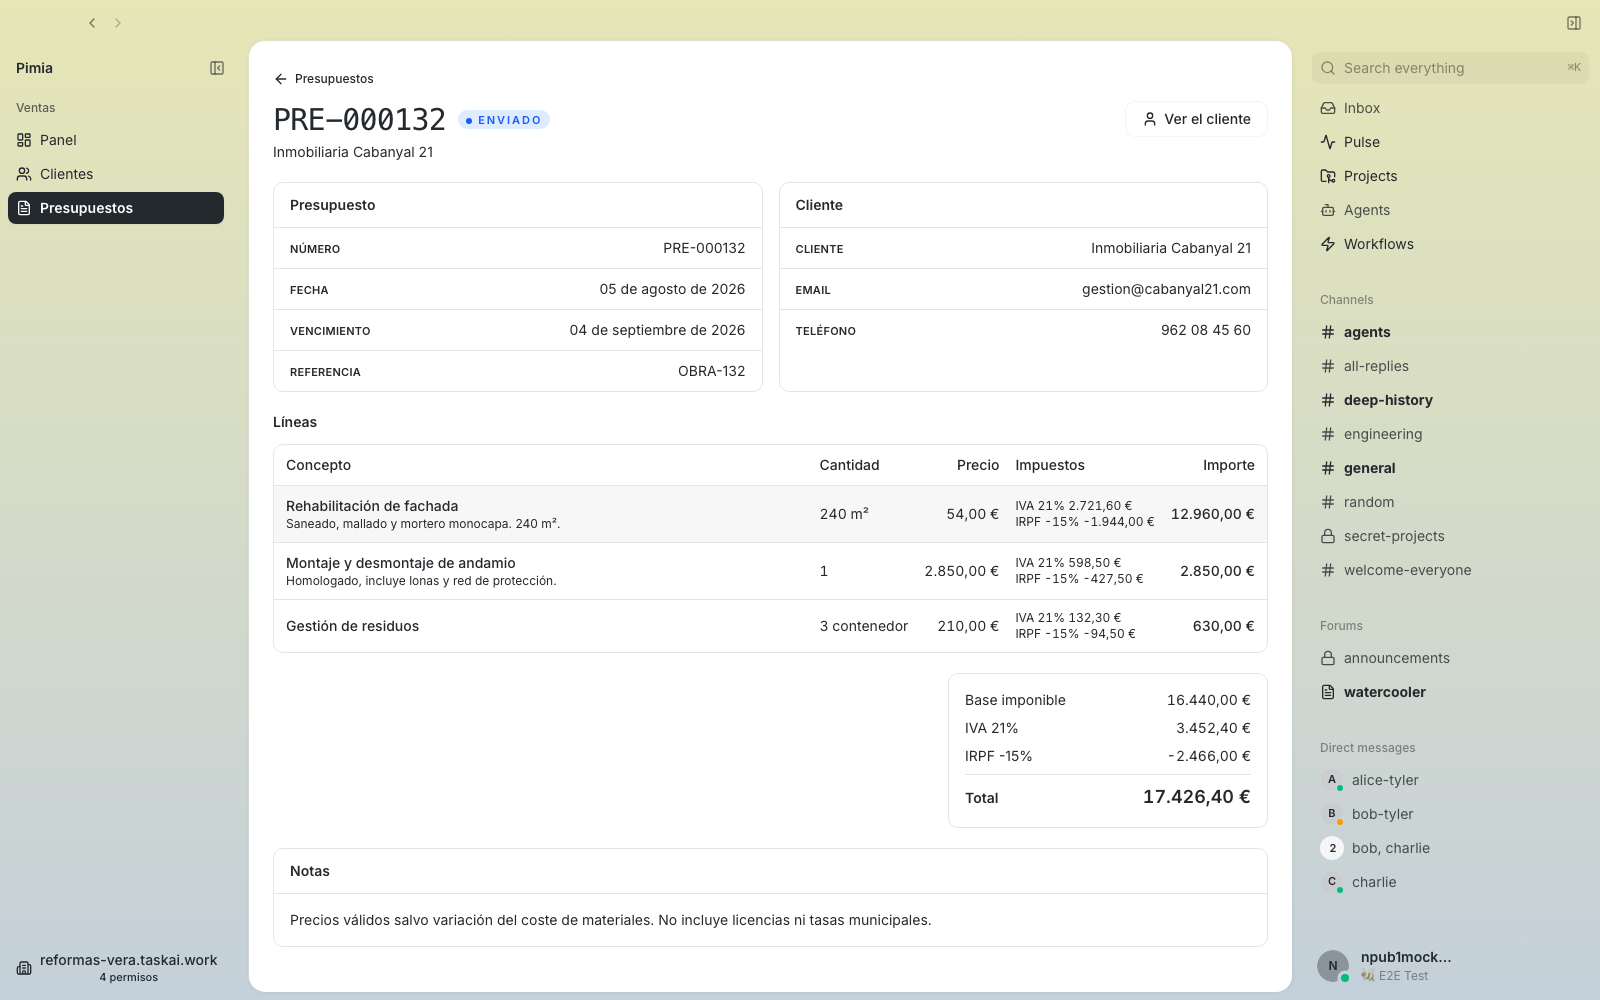
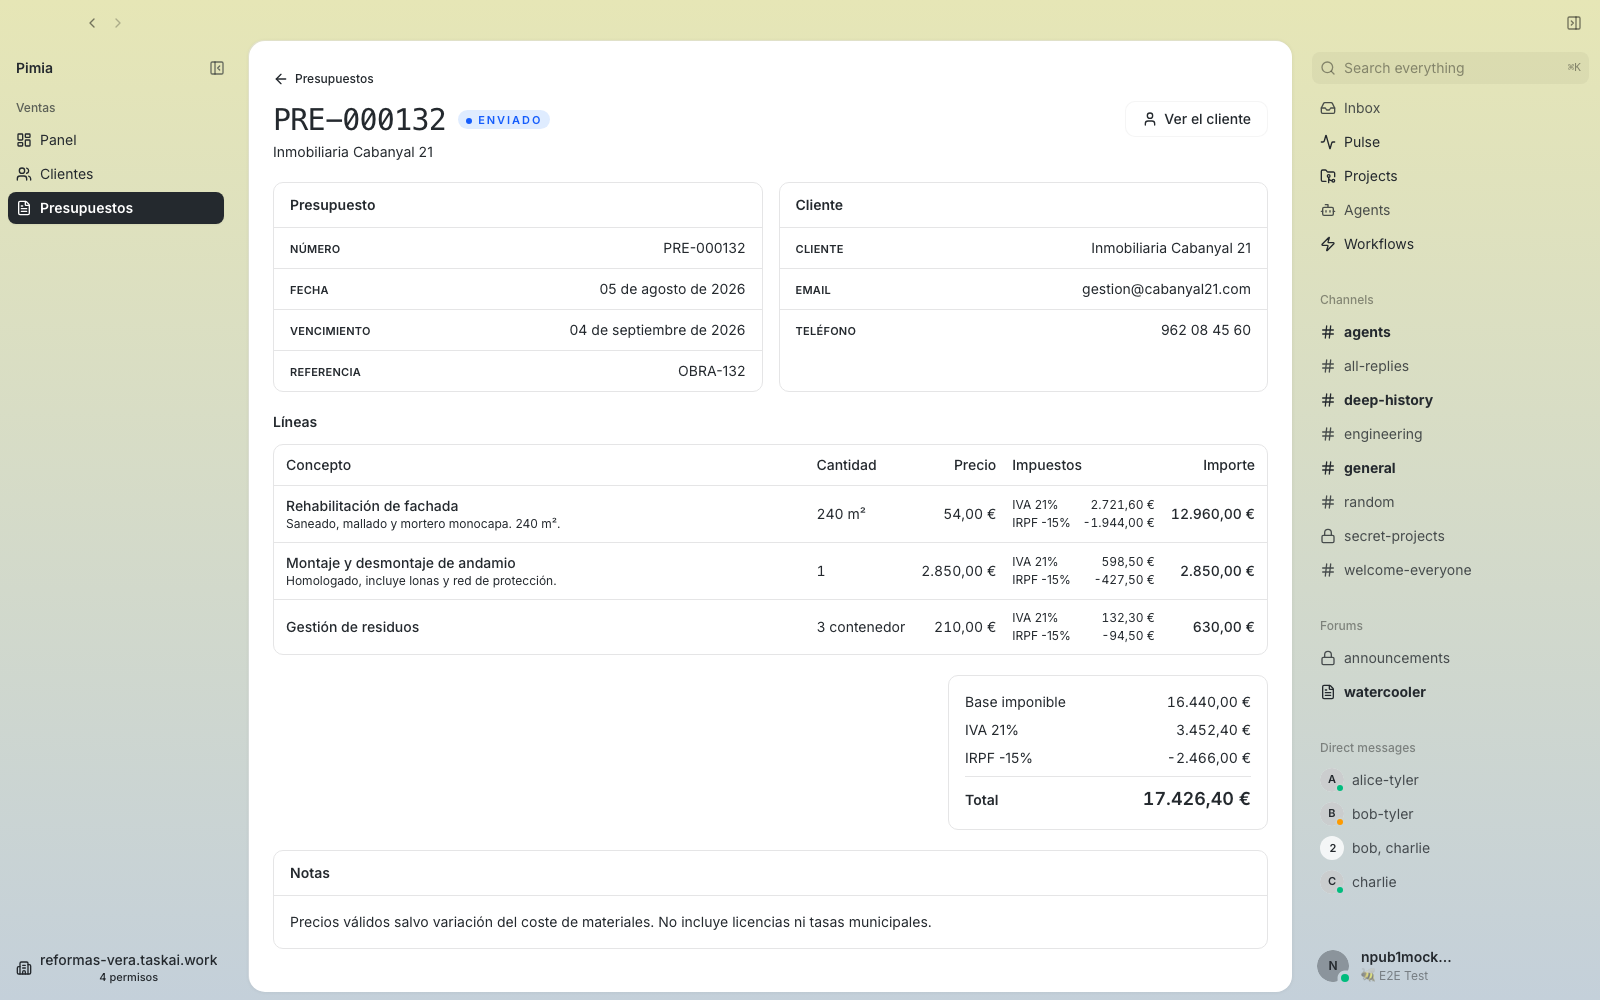
fix(pimia): el IRPF seguía escondido, y la línea era ilegible
👤 «En la web además de mostrar bien la información, es legible; en Buzz,
no. Se trata de mejorar la UI, no de empeorarla.» Con razón: dos fallos
que el mock no reproducía porque inventaba los datos «bien».

1. **El tipo salía dos veces**: «IVA 21% **21%** 525,00 €». El `name` que
   devuelve el tenant ya lleva el porcentaje dentro (`"IVA 21%"`, no
   `"IVA"`), y yo le añadía el `percent` encima.
2. **El desglose seguía en neto.** Este presupuesto lleva los impuestos
   **por línea**, así que la colección `taxes` de la cabecera viene vacía
   y mi caída al campo `tax` se activaba justo donde el panel agrega las
   líneas. Resultado: «Impuestos 150,00 €» otra vez, con el IRPF
   escondido.

Las dos viven ahora resueltas y probadas en `lib/taxes.ts`
(`taxLabel` + `resolveDocumentTaxes`), que facturas reutiliza tal cual.

**Y la legibilidad, que era la queja de fondo**: el nombre del impuesto y
su importe van en columnas separadas, con el dinero alineado a la
derecha y en tabular. En una sola cadena el ojo no encuentra dónde
empieza la cifra, que es justo lo que hay que comparar entre líneas.

**El mock pasa a mentir menos**: reproduce la forma real —sin impuestos
de cabecera y con el tipo ya dentro del nombre— en vez de la forma
cómoda. Es la tercera vez esta sesión que un mock «bien hecho» tapa un
fallo de producción; la regla es copiar lo que el servidor manda, no lo
que uno querría que mandase.

diff --git a/desktop/src/features/pimia/ui/PimiaEstimateScreen.tsx b/desktop/src/features/pimia/ui/PimiaEstimateScreen.tsx
@@ -12,12 +12,17 @@
  * para discrepar de la factura de verdad.
  */
 
+import * as React from "react";
 import type { ReactNode } from "react";
 import { ArrowLeft, User } from "lucide-react";
 
 import { useAppNavigation } from "@/app/navigation/useAppNavigation";
-import type { PimiaEstimateLine } from "@/features/pimia/api/estimates";
+import type {
+  PimiaEstimateLine,
+  PimiaEstimateTax,
+} from "@/features/pimia/api/estimates";
 import { formatCents } from "@/features/pimia/lib/money";
+import { resolveDocumentTaxes, taxLabel } from "@/features/pimia/lib/taxes";
 import { useActivePimiaTenant } from "@/features/pimia/hooks/usePimiaAuth";
 import { usePimiaEstimateQuery } from "@/features/pimia/hooks/usePimiaResources";
 import {
@@ -103,13 +108,30 @@ function FieldCard({
   );
 }
 
-/** «IVA 21%» o, si el impuesto es de importe fijo, solo su nombre. */
-function taxLabel(tax: { name: string; percent: number | null }) {
-  return tax.percent === null
-    ? tax.name
-    : `${tax.name} ${tax.percent.toLocaleString("es-ES", {
-        maximumFractionDigits: 2,
-      })}%`;
+/**
+ * Los impuestos de una celda: el nombre a la izquierda y el importe a la
+ * derecha, en columna. Puestos en una sola cadena («IVA 21% 525,00 €») el ojo
+ * no encuentra dónde empieza el dinero, que es justo lo que hay que poder
+ * comparar entre líneas.
+ */
+function TaxLines({ taxes }: { taxes: PimiaEstimateTax[] | null }) {
+  if (!taxes || taxes.length === 0) {
+    return <span className="text-muted-foreground">—</span>;
+  }
+  return (
+    <span className="grid grid-cols-[auto_1fr] gap-x-3 gap-y-0.5 text-xs">
+      {taxes.map((tax) => (
+        <React.Fragment key={tax.id}>
+          <span className="whitespace-nowrap text-muted-foreground">
+            {taxLabel(tax)}
+          </span>
+          <span className="whitespace-nowrap text-right tabular-nums text-foreground">
+            {formatCents(tax.amountCents ?? 0)}
+          </span>
+        </React.Fragment>
+      ))}
+    </span>
+  );
 }
 
 /** El desglose. Cada línea solo aparece si el servidor la manda con valor. */
@@ -162,6 +184,10 @@ export function PimiaEstimateScreen({ estimateId }: { estimateId: string }) {
 
   const estimate = query.data;
   const lines = estimate?.lines ?? [];
+  const documentTaxes = resolveDocumentTaxes(
+    estimate?.taxes ?? null,
+    estimate?.lines ?? null,
+  );
 
   return (
     <div className="flex h-full flex-col gap-5 overflow-y-auto p-6">
@@ -273,18 +299,8 @@ export function PimiaEstimateScreen({ estimateId }: { estimateId: string }) {
                           className="py-2.5 font-normal text-muted-foreground"
                           dimZero={false}
                         />
-                        <TableCell className="py-2.5 text-xs text-muted-foreground">
-                          {line.taxes && line.taxes.length > 0
-                            ? line.taxes.map((tax) => (
-                                <span
-                                  className="block whitespace-nowrap tabular-nums"
-                                  key={tax.id}
-                                >
-                                  {taxLabel(tax)}{" "}
-                                  {formatCents(tax.amountCents ?? 0)}
-                                </span>
-                              ))
-                            : "—"}
+                        <TableCell className="py-2.5">
+                          <TaxLines taxes={line.taxes} />
                         </TableCell>
                         <PimiaAmountCell
                           cents={line.totalCents}
@@ -313,10 +329,11 @@ export function PimiaEstimateScreen({ estimateId }: { estimateId: string }) {
                   label="Descuento"
                 />
               ) : null}
-              {/* Uno por uno cuando el servidor los desglosa: el IVA y la
-                  retención de IRPF sumados dan un neto que esconde las dos. */}
-              {estimate.taxes && estimate.taxes.length > 0 ? (
-                estimate.taxes.map((tax) => (
+              {/* Uno por uno: el IVA y la retención de IRPF sumados dan un
+                  neto que esconde las dos. Si el documento los lleva por
+                  línea, se agregan de ahí — igual que hace el panel. */}
+              {documentTaxes.length > 0 ? (
+                documentTaxes.map((tax) => (
                   <TotalsRow
                     amountCents={tax.amountCents ?? 0}
                     key={tax.id}

diff --git a/desktop/src/features/pimia/lib/taxes.ts b/desktop/src/features/pimia/lib/taxes.ts
@@ -1,0 +1,65 @@
+/**
+ * Los impuestos que hay que enseñar en el desglose de un documento.
+ *
+ * Dos cosas que solo se ven con datos reales, y que costaron una pasada:
+ *
+ * 1. **El nombre ya trae el tipo.** El tenant devuelve `name: "IVA 21%"`, no
+ *    `"IVA"`, así que añadirle el `percent` escribe «IVA 21% 21%».
+ * 2. **Los impuestos pueden vivir en las líneas y no en la cabecera.** Con
+ *    `tax_per_item`, la colección `taxes` del documento viene vacía y el
+ *    desglose hay que agregarlo de las líneas — que es lo que hace el panel de
+ *    Pimia. Sin esto se cae al campo `tax`, que es el **neto** de IVA menos
+ *    retención y esconde las dos.
+ */
+
+import type {
+  PimiaEstimateLine,
+  PimiaEstimateTax,
+} from "@/features/pimia/api/estimates";
+
+/** Cómo se escribe un impuesto: «IVA 21%», sin repetir el tipo. */
+export function taxLabel(tax: {
+  name: string;
+  percent: number | null;
+}): string {
+  // Si el nombre ya lleva un porcentaje dentro, se respeta tal cual.
+  if (tax.percent === null || /\d\s*%/.test(tax.name)) {
+    return tax.name;
+  }
+  return `${tax.name} ${tax.percent.toLocaleString("es-ES", {
+    maximumFractionDigits: 2,
+  })}%`;
+}
+
+/** Misma etiqueta = mismo impuesto, aunque venga en filas distintas. */
+function key(tax: PimiaEstimateTax): string {
+  return `${taxLabel(tax)}`;
+}
+
+/**
+ * El desglose a pintar: los de la cabecera si los hay y, si no, la suma de los
+ * de las líneas agrupados por impuesto. Lista vacía = no se sabe, y entonces
+ * quien llame decidirá si cae al neto.
+ */
+export function resolveDocumentTaxes(
+  headerTaxes: PimiaEstimateTax[] | null,
+  lines: PimiaEstimateLine[] | null,
+): PimiaEstimateTax[] {
+  if (headerTaxes && headerTaxes.length > 0) {
+    return headerTaxes;
+  }
+
+  const totals = new Map<string, PimiaEstimateTax>();
+  for (const line of lines ?? []) {
+    for (const tax of line.taxes ?? []) {
+      const id = key(tax);
+      const seen = totals.get(id);
+      if (seen) {
+        seen.amountCents = (seen.amountCents ?? 0) + (tax.amountCents ?? 0);
+      } else {
+        totals.set(id, { ...tax, id });
+      }
+    }
+  }
+  return [...totals.values()];
+}

diff --git a/desktop/tests/helpers/pimia.ts b/desktop/tests/helpers/pimia.ts
@@ -472,20 +472,10 @@ export async function installPimiaMock(
               notes:
                 "Precios válidos salvo variación del coste de materiales. No incluye licencias ni tasas municipales.",
               customer: owner ?? found.customer,
-              taxes: [
-                {
-                  id: `${found.id}-iva`,
-                  name: "IVA",
-                  percent: 21,
-                  amount: vat,
-                },
-                {
-                  id: `${found.id}-irpf`,
-                  name: "IRPF",
-                  percent: -15,
-                  amount: withholding,
-                },
-              ],
+              // Como el tenant real: **sin** impuestos de cabecera (van por
+              // línea) y con el tipo YA dentro del nombre. Las dos cosas
+              // rompieron la ficha en producción mientras el mock, que las
+              // ponía «bien», la daba por buena.
               items: (LINES[found.id] ?? []).map((line, index) => ({
                 ...line,
                 id: `${found.id}-${index + 1}`,
@@ -493,13 +483,13 @@ export async function installPimiaMock(
                 taxes: [
                   {
                     id: `${found.id}-${index + 1}-iva`,
-                    name: "IVA",
+                    name: "IVA 21%",
                     percent: 21,
                     amount: Math.round(line.total * 0.21),
                   },
                   {
                     id: `${found.id}-${index + 1}-irpf`,
-                    name: "IRPF",
+                    name: "IRPF -15%",
                     percent: -15,
                     amount: -Math.round(line.total * 0.15),
                   },

diff --git a/docs/PIMIA-UI.md b/docs/PIMIA-UI.md
@@ -58,9 +58,19 @@ molde que la factura hereda:
 ⛔ **Los impuestos van uno a uno, nunca sumados.** Un presupuesto español lleva
 a la vez IVA y **retención de IRPF**, que es negativa: el campo `tax` de la API
 es el neto, así que enseñarlo tal cual («Impuestos 150,00 €») esconde los 525
-de IVA y los −375 de retención. Se leen de la colección `taxes` —que trae
-`name`, `percent` y `amount`, y viene tanto en la cabecera como en cada
-línea— y solo se cae al neto si el servidor no la manda.
+de IVA y los −375 de retención. Todo eso vive resuelto y probado en
+`lib/taxes.ts`, con las dos trampas que solo aparecen con datos reales:
+
+- **El `name` ya trae el tipo dentro** (`"IVA 21%"`, no `"IVA"`), así que
+  añadirle el `percent` escribe «IVA 21% 21%».
+- **Los impuestos pueden vivir en las líneas y no en la cabecera.** Con
+  `tax_per_item`, la colección `taxes` del documento viene vacía y el desglose
+  se **agrega de las líneas** — que es lo que hace el panel. Sin eso se cae al
+  neto y la retención desaparece.
+
+Y en la tabla, el nombre y el importe del impuesto van en **columnas
+separadas**: en una sola cadena («IVA 21% 525,00 €») el ojo no encuentra dónde
+empieza el dinero, que es justo lo que hay que comparar entre líneas.
 
 **La vara es el panel de Pimia**, no la referencia: la misma pantalla en el
 workspace tiene que enseñar **como mínimo** lo que ya enseña el panel del mismo
